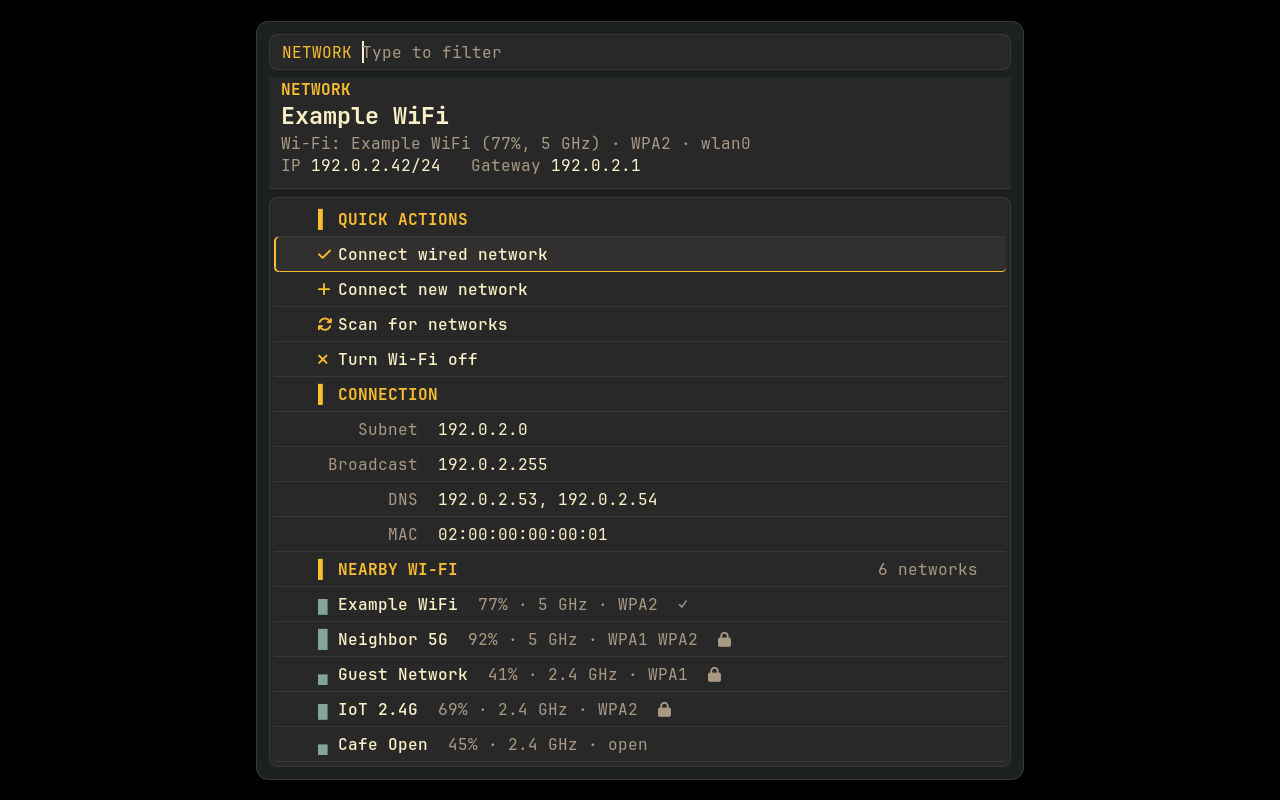
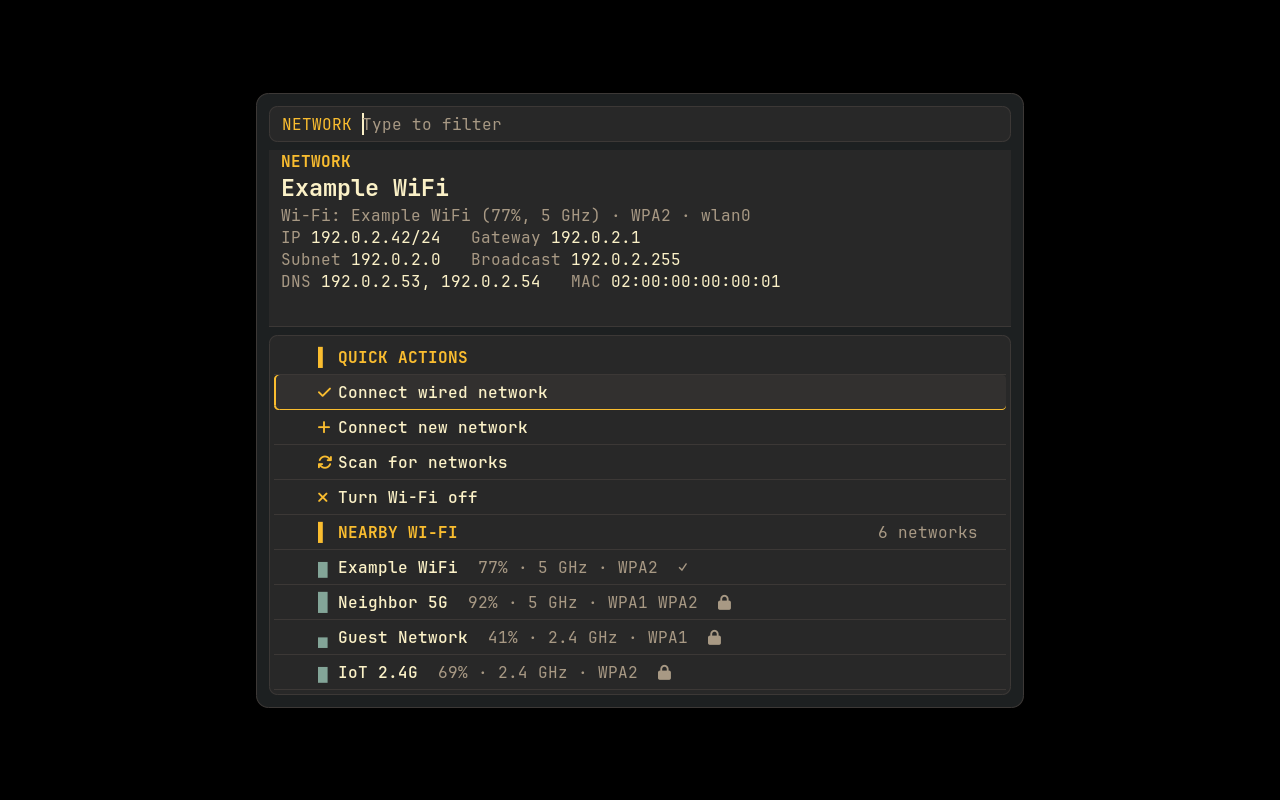
docs(screenshots): refresh the full Network top card

diff --git a/docs/screenshots/ui/README.md b/docs/screenshots/ui/README.md
@@ -13,7 +13,7 @@ The README shows the Gruvbox row. Every app also has `nord`, `solarized`, and
 | Calendar | [![Calendar Gruvbox](calendar-gruvbox.png?v=3)](calendar-gruvbox.png) | [![Calendar Nord](calendar-nord.png?v=3)](calendar-nord.png) | [![Calendar Solarized](calendar-solarized.png?v=3)](calendar-solarized.png) | [![Calendar Auto](calendar-auto.png?v=3)](calendar-auto.png) |
 | Clipboard | [![Clipboard Gruvbox](clipboard-gruvbox.png?v=3)](clipboard-gruvbox.png) | [![Clipboard Nord](clipboard-nord.png?v=3)](clipboard-nord.png) | [![Clipboard Solarized](clipboard-solarized.png?v=3)](clipboard-solarized.png) | [![Clipboard Auto](clipboard-auto.png?v=3)](clipboard-auto.png) |
 | Keybinds | [![Keybinds Gruvbox](keybinds-gruvbox.png?v=3)](keybinds-gruvbox.png) | [![Keybinds Nord](keybinds-nord.png?v=3)](keybinds-nord.png) | [![Keybinds Solarized](keybinds-solarized.png?v=3)](keybinds-solarized.png) | [![Keybinds Auto](keybinds-auto.png?v=3)](keybinds-auto.png) |
-| Network | [![Network Gruvbox](network-gruvbox.png?v=3)](network-gruvbox.png) | [![Network Nord](network-nord.png?v=3)](network-nord.png) | [![Network Solarized](network-solarized.png?v=3)](network-solarized.png) | [![Network Auto](network-auto.png?v=3)](network-auto.png) |
+| Network | [![Network Gruvbox](network-gruvbox.png?v=4)](network-gruvbox.png) | [![Network Nord](network-nord.png?v=4)](network-nord.png) | [![Network Solarized](network-solarized.png?v=4)](network-solarized.png) | [![Network Auto](network-auto.png?v=4)](network-auto.png) |
 
 The `auto` column falls back to Gruvbox when no matugen palette or
 `static.env` is present. See [UI style](../../UI_STYLE.md) for the palette,

diff --git a/README.md b/README.md
@@ -28,7 +28,7 @@ below are real Rofi captures (not mockups).
 
 | Clipboard | Keybinds | Network |
 |---|---|---|
-| <img src="docs/screenshots/ui/clipboard-gruvbox.png?v=3" width="360" alt="Clipboard in Gruvbox Dark"> | <img src="docs/screenshots/ui/keybinds-gruvbox.png?v=3" width="360" alt="Keybinds in Gruvbox Dark"> | <img src="docs/screenshots/ui/network-gruvbox.png?v=3" width="360" alt="Network in Gruvbox Dark"> |
+| <img src="docs/screenshots/ui/clipboard-gruvbox.png?v=3" width="360" alt="Clipboard in Gruvbox Dark"> | <img src="docs/screenshots/ui/keybinds-gruvbox.png?v=3" width="360" alt="Keybinds in Gruvbox Dark"> | <img src="docs/screenshots/ui/network-gruvbox.png?v=4" width="360" alt="Network in Gruvbox Dark"> |
 
 [Full 6 app × 4 mode screenshot matrix](docs/screenshots/ui/README.md) ·
 [UI style guide](docs/UI_STYLE.md) · `rofi-hub theme dump --app <app>`
